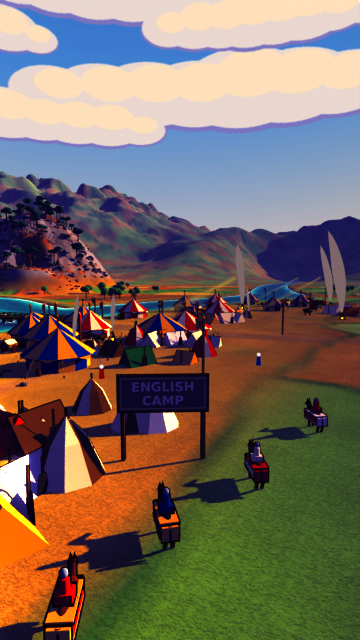
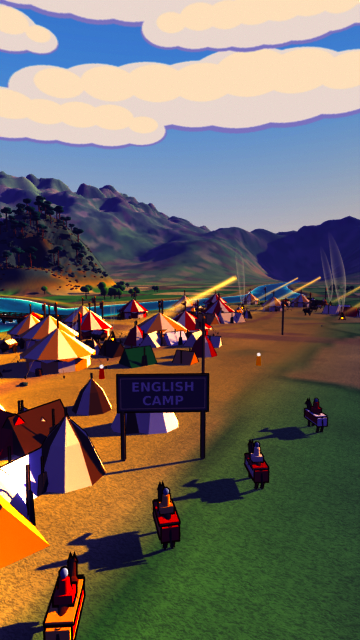
film21 sG/sJ1: sync set3d21 e07ceb1
Claude-Session: https://claude.ai/code/session_017iwyCtvGWYHcEnV2cnVAxQ

diff --git a/film/v3/set3d21/stirling.py b/film/v3/set3d21/stirling.py
@@ -97,7 +97,7 @@ _MATS = {}
 def get_mat(key):
     if key in _MATS: return _MATS[key]
     if key.startswith('glow'): m = _glow_mat(key)
-    elif key == 'smoke': m = _glow_mat('glow_smoke')
+    elif key == 'smoke': m = _smoke_mat()
     elif key == 'ink_hull': m = _ink_mat()
     elif key == 'sky': m = _sky_mat()
     elif key == 'water': m = _water_mat()
@@ -177,6 +177,35 @@ def _lit_mat(key, s):
     sh = _lit_core(nt, art, s, geo)
     if s['haze']: sh = _haze_out(nt, sh)
     L(sh, out.inputs['Surface']); return m
+def _smoke_mat():
+    """soft smoke: warm-grey emission, transparent at the silhouette (facing falloff) and fading toward the top of each plume, so a plume near the lens is a soft haze-free puff, not a flat grey blade."""
+    m = bpy.data.materials.new('smoke'); nt = _mk_tree(m); N = nt.nodes.new; L = nt.links.new; out = N('ShaderNodeOutputMaterial'); lw = N('ShaderNodeLayerWeight'); lw.inputs['Blend'].default_value = 0.5
+    tc = N('ShaderNodeTexCoord'); sp = N('ShaderNodeSeparateXYZ'); L(tc.outputs['Generated'], sp.inputs[0]); fz = N('ShaderNodeMath'); fz.operation = 'SUBTRACT'; fz.inputs[0].default_value = 1.0; L(sp.outputs['Z'], fz.inputs[1])
+    a1 = N('ShaderNodeMath'); a1.operation = 'MULTIPLY'; L(lw.outputs['Facing'], a1.inputs[0]); L(fz.outputs[0], a1.inputs[1]); a2 = N('ShaderNodeMath'); a2.operation = 'MULTIPLY'; a2.inputs[1].default_value = 0.85; L(a1.outputs[0], a2.inputs[0])
+    em = N('ShaderNodeEmission'); em.inputs['Color'].default_value = (*hex_lin('#e4d6cc'), 1); em.inputs['Strength'].default_value = 0.9; tr = N('ShaderNodeBsdfTransparent'); mx = N('ShaderNodeMixShader'); L(a2.outputs[0], mx.inputs['Fac']); L(tr.outputs[0], mx.inputs[1]); L(em.outputs[0], mx.inputs[2]); L(mx.outputs[0], out.inputs['Surface']); return m
+def hide_near_banners(points, radius=15.0, smoke=True, banners=True):
+    """hide (hide_render) every live banner (and, with smoke=True, every smoke plume) within `radius` m of any point of a camera path (list of (x, y, z) or (x, y); 3D distance when z is
+    given). Call again with other points to update; `K.show_all_banners()` undoes it. Returns (banners hidden, plumes hidden)."""
+    P = [np.array(p, float) for p in points]; nb = ns = 0
+    def near(loc):
+        for p in P:
+            q = np.array(loc, float)
+            if len(p) == 2: q = q[:2]
+            if np.linalg.norm(q - p) < radius: return True
+        return False
+    for (obn, mdn, ph, h0) in STATE['anim'].get('flags', []):
+        ob = bpy.data.objects.get(obn)
+        if ob is not None: hide = banners and near(ob.location); ob.hide_render = bool(hide); nb += int(hide)
+    for c in STATE['anim'].get('smoke', []):
+        ob = bpy.data.objects.get(c['ob'])
+        if ob is not None: hide = smoke and near(c['base']); ob.hide_render = bool(hide); ns += int(hide)
+    # the pole + cloth of one banner are separate objects at one origin: hide the siblings too
+    for ob in bpy.data.objects:
+        if ob.name.startswith('flag_') and not any(ob.name == f[0] for f in STATE['anim'].get('flags', [])): ob.hide_render = bool(banners and near(ob.location))
+    return nb, ns
+def show_all_banners():
+    for ob in bpy.data.objects:
+        if ob.name.startswith('flag_') or ob.name.startswith('smoke_col'): ob.hide_render = False
 def _glow_mat(key):
     spec = {'glow_flame': ('#ffb040', 6.0), 'glow_ember': ('#ff8a30', 4.0), 'glow_sun': ('#fff2cc', 6.0), 'glow_smoke': ('#cdbfc0', 0.85), 'glow_spray': ('#f6f8fb', 1.0), 'glow_spray2': ('#f2f6fa', 1.0)}[key]
     m = bpy.data.materials.new(key); nt = _mk_tree(m); out = nt.nodes.new('ShaderNodeOutputMaterial'); e = nt.nodes.new('ShaderNodeEmission'); e.name = 'strength'
@@ -201,7 +230,7 @@ def _sky_mat():
     cb = N('ShaderNodeCombineXYZ'); L(uw.outputs[0], cb.inputs['X']); L(v.outputs[0], cb.inputs['Y'])
     it = N('ShaderNodeTexImage'); it.image = bpy.data.images.load(path, check_existing=True); it.interpolation = 'Linear'; it.extension = 'EXTEND'; L(cb.outputs[0], it.inputs[0])
     e = N('ShaderNodeEmission'); L(it.outputs['Color'], e.inputs[0]); e.inputs[1].default_value = 1.0; L(e.outputs[0], out.inputs[0]); return m
-PH_COL = {'scot': '#6e5a3c', 'wallace': '#5a4a34', 'moray': '#3f6a4a', 'cressingham': '#b03a38', 'surrey': '#34548e', 'knight': '#b8323a', 'knight_b': '#2f56a8', 'knight_g': '#d9a93a',
+PH_COL = {'scot': '#6e5a3c', 'wallace': '#5a4a34', 'moray': '#3f6a4a', 'cressingham': '#b03a38', 'surrey': '#34548e', 'knight': '#b8323a', 'knight_b': '#c8962e', 'knight_g': '#d9a93a',
           'foot': '#9a8c70', 'foot_r': '#a84a40', 'archer': '#3f6a4a', 'squire': '#6a5a7a', 'scot_b': '#8c4a30', 'scot_o': '#b08a3c', 'scot_m': '#5a6a3a'}
 def _ph_mat(key):
     hexc = '#fef7f6' if key == 'ph_head' else '#4a2a4a' if key == 'ph_ring' else PH_COL[key[3:]]
@@ -860,7 +889,7 @@ def knight_pair_column(B, y_list, x, rs, mats):
     for i, yy in enumerate(y_list):
         for sx in (-0.62, 0.62):
             m = mats[(i + (0 if sx < 0 else 1)) % len(mats)]; horse(B, (x + sx, yy, DECK_Z), 90.0, coat=['horse', 'horse_dk', 'horse'][rs.randint(0, 3)], trap=m[0], trim=m[1], tint=0.85 + 0.3 * rs.rand(), rider=(m[0],))
-KNIGHT_MATS = [('t_red', 't_gold'), ('t_blue', 't_gold'), ('t_cream', 't_red'), ('t_red', 't_white'), ('t_blue', 't_white')]
+KNIGHT_MATS = [('t_red', 't_gold'), ('t_gold', 't_red'), ('t_cream', 't_red'), ('t_red', 't_white'), ('t_gold', 't_cream')]
 
 # ---------------------------------------------------------------- camp props
 def ropes(B, c, r, hroof, hwall, n, rs, peg_r=1.9):
@@ -954,7 +983,7 @@ def weapon_rack(B, c, yaw, rs, n=7):
         for sx in (-1.0, 1.0): B.rod('wood', (sx, -0.3, 0), (sx, 0, 1.55), 0.05, seg=5); B.rod('wood', (sx, 0.3, 0), (sx, 0, 1.55), 0.05, seg=5)
         B.rod('wood', (-1.0, 0, 1.5), (1.0, 0, 1.5), 0.045, seg=5); B.rod('wood', (-1.0, 0, 0.6), (1.0, 0, 0.6), 0.04, seg=5)
         for i in range(n): xx = -0.85 + i * 1.7 / (n - 1); spear(B, (xx, rs.uniform(-0.05, 0.05), 0.02), tilt=(rs.uniform(-0.2, 0.2), rs.uniform(-0.1, 0.1)), h=2.5)
-        for i in range(2): B.cyl('t_red' if i == 0 else 't_blue', (-0.4 + i * 0.8, -0.22, 0.45), 0.34, 0.06, axis='y', seg=12, smooth=False)
+        for i in range(2): B.cyl('t_red' if i == 0 else 't_gold', (-0.4 + i * 0.8, -0.22, 0.45), 0.34, 0.06, axis='y', seg=12, smooth=False)
 def campfire(B, Bs, c, rs, puffs=True):
     x, y, z = c
     for i in range(9): a = i * 2 * math.pi / 9; boulder(B, x + 0.62 * math.cos(a), y + 0.62 * math.sin(a), z, 0.26, rs, 'rock')
@@ -994,7 +1023,7 @@ def table_set(A, B, c, yaw, rs):
             for sy in (-1.2, 1.2): B.rod('wood', (sx, sy, -0.1), (sx, sy, 3.5), 0.055, seg=6)
         seg = 8; r = 2.5; hz = 3.5
         for i in range(seg):
-            a0 = 2 * math.pi * i / seg + math.pi / 4; a1 = 2 * math.pi * (i + 1) / seg + math.pi / 4; m = ('t_blue', 't_gold')[i % 2]
+            a0 = 2 * math.pi * i / seg + math.pi / 4; a1 = 2 * math.pi * (i + 1) / seg + math.pi / 4; m = ('t_red', 't_gold')[i % 2]
             Bc.mesh(m, [(r * 1.0 * math.cos(a0) * 1.0, r * 0.82 * math.sin(a0), hz), (r * math.cos(a1), r * 0.82 * math.sin(a1), hz), (0, 0, hz + 0.9)], [(0, 1, 2)], False)
             Bc.mesh(m, [(r * math.cos(a0), r * 0.82 * math.sin(a0), hz), (r * math.cos(a1), r * 0.82 * math.sin(a1), hz), (r * math.cos(a1), r * 0.82 * math.sin(a1), hz - 0.5), (r * math.cos(a0), r * 0.82 * math.sin(a0), hz - 0.5)], [(0, 1, 2, 3)], False)
         Bc.sphere('gold', (0, 0, hz + 1.0), 0.14, seg=8, rings=5)
@@ -1076,16 +1105,16 @@ def build_camp(A, pr):
     free = lambda x, y, r=0.0: all(math.hypot(x - cx, y - cy) > cr + r for cx, cy, cr in clear)
     PAV = [(-96, 8, 3.6), (-72, 10, 4.0), (-48, 8, 3.8), (-26, 22, 4.4), (24, 9, 4.0), (48, 12, 3.8), (74, 8, 4.2), (98, 11, 3.6), (-60, 30, 3.6), (-12, 36, 5.0), (30, 34, 4.4), (66, 36, 3.8), (-86, 34, 3.6), (92, 36, 3.6)]
     for i, (x, off, r) in enumerate(PAV):
-        by = float(bank_y(x)); y = by - off - r; z = float(ground(x, y)); mats = (('t_red', 't_cream'), ('t_blue', 't_gold'))[i % 2]
+        by = float(bank_y(x)); y = by - off - r; z = float(ground(x, y)); mats = (('t_red', 't_cream'), ('t_gold', 't_cream'))[i % 2]
         if not free(x, y, r + 2): continue
         pavilion(B, (x, y, z), r, mats, yaw=rs.uniform(0, 30), rs=rs, hw=1.8 + 0.2 * rs.rand(), hr=3.2 + 0.7 * rs.rand())
-        if i % 2 == 0 or r > 4.3: bn(Bh, (x + r * 0.6, y + r * 0.2, z), 6.5 + rs.rand() * 1.5, rs.uniform(-20, 60), *[('t_red', 't_gold', 'chevron'), ('t_blue', 't_gold', 'bars'), ('t_cream', 't_red', 'cross'), ('t_gold', 't_red', 'lion'), ('t_green', 't_cream', 'bend')][i % 5], rs)
+        if i % 2 == 0 or r > 4.3: bn(Bh, (x + r * 0.6, y + r * 0.2, z), 6.5 + rs.rand() * 1.5, rs.uniform(-20, 60), *[('t_red', 't_gold', 'chevron'), ('t_red', 't_gold', 'bars'), ('t_cream', 't_red', 'cross'), ('t_gold', 't_red', 'lion'), ('t_green', 't_cream', 'bend')][i % 5], rs)
         sacks(B, (x + r + 1.0, y - 1.5, z), 3, rs); barrel(B, (x - r - 0.8, y - 2.0, z), rs=rs)
     camp['pav'] = PAV
     for i, (x, y, r) in enumerate([(-24.0, -38.0, 3.6), (-14.0, -44.0, 3.9), (-38.0, -58.0, 4.2), (-6.0, -62.0, 4.6), (-6.0, -35.5, 4.2)]):          # the plaza pavilions
         if not free(x, y, r + 2): continue
-        z = float(ground(x, y)); pavilion(B, (x, y, z), r, (('t_blue', 't_gold'), ('t_red', 't_cream'))[i % 2], yaw=rs.uniform(0, 30), rs=rs, hw=1.9, hr=3.4)
-        bn(Bh, (x + r * 0.7, y - r * 0.3, z), 7.0, rs.uniform(10, 70), *[('t_gold', 't_red', 'lion'), ('t_blue', 't_gold', 'bars'), ('t_red', 't_gold', 'chevron'), ('t_cream', 't_red', 'cross')][i % 4], rs)
+        z = float(ground(x, y)); pavilion(B, (x, y, z), r, (('t_gold', 't_cream'), ('t_red', 't_cream'))[i % 2], yaw=rs.uniform(0, 30), rs=rs, hw=1.9, hr=3.4)
+        bn(Bh, (x + r * 0.7, y - r * 0.3, z), 7.0, rs.uniform(10, 70), *[('t_gold', 't_red', 'lion'), ('t_red', 't_gold', 'bars'), ('t_red', 't_gold', 'chevron'), ('t_cream', 't_red', 'cross')][i % 4], rs)
         sacks(B, (x + r + 1.0, y - 1.0, z), 3, rs); barrel(B, (x - r - 0.9, y - 1.5, z), rs=rs)
     for (x, y, yaw) in [(-31.0, -42.0, 20), (-19.0, -50.0, 80), (-45.0, -46.0, 10)]:
         if free(x, y, 4): cart(B, (x, y, float(ground(x, y))), yaw, rs, cover=rs.rand() < 0.5)
@@ -1103,7 +1132,7 @@ def build_camp(A, pr):
             if rs.rand() < 0.35: bell_tent(B, (x, y, z), 1.8 * sz, 2.8 * sz, m, rs)
             else: ridge_tent(B, (x, y, z), 3.6 * sz, 2.9 * sz, 2.0 * sz, m, yaw=rs.choice([0, 90, 20, -25, 70]) + rs.uniform(-8, 8))
     for i, (x, off) in enumerate([(-130, 24), (-110, 6), (116, 12), (130, 34), (-60, 52), (50, 58), (4, 62), (-34, 60)]):          # more banners on the skirts
-        y = float(bank_y(x)) - off; bn(Bh, (x, y, float(ground(x, y))), 7.0, rs.uniform(-20, 60), *[('t_red', 't_gold', 'chevron'), ('t_blue', 't_gold', 'bars'), ('t_cream', 't_red', 'cross'), ('t_gold', 't_red', 'lion')][i % 4], rs)
+        y = float(bank_y(x)) - off; bn(Bh, (x, y, float(ground(x, y))), 7.0, rs.uniform(-20, 60), *[('t_red', 't_gold', 'chevron'), ('t_red', 't_gold', 'bars'), ('t_cream', 't_red', 'cross'), ('t_gold', 't_red', 'lion')][i % 4], rs)
     for (x, off, yaw) in [(-34, 26, 20), (44, 24, -10), (84, 28, 80), (-76, 28, 5), (10, 40, 30)]:
         y = float(bank_y(x)) - off
         if free(x, y, 4): cart(B, (x, y, float(ground(x, y))), yaw, rs, cover=rs.rand() < 0.6)
@@ -1119,7 +1148,7 @@ def build_camp(A, pr):
         zl = [float(ground(x_, y)) for x_ in xs]
         for i, x_ in enumerate(xs):
             B.rod('wood', (x_ - 2.6, y + 0.2, zl[i]), (x_ - 2.6, y + 0.2, zl[i] + 1.6), 0.06, seg=5)
-            horse(B, (x_, y + (1.2 if i % 2 else -0.2), zl[i]), rs.uniform(70, 110) if i % 2 == 0 else rs.uniform(250, 290), coat=['horse', 'horse_dk', 'horse', 'horse'][rs.randint(0, 4)], trap=(None, 't_red', None, 't_blue', 't_cream', None, 't_red')[i], trim='t_gold', tint=0.8 + 0.4 * rs.rand(), bob=rs.uniform(0, 0.25))
+            horse(B, (x_, y + (1.2 if i % 2 else -0.2), zl[i]), rs.uniform(70, 110) if i % 2 == 0 else rs.uniform(250, 290), coat=['horse', 'horse_dk', 'horse', 'horse'][rs.randint(0, 4)], trap=(None, 't_red', None, 't_gold', 't_cream', None, 't_red')[i], trim='t_gold', tint=0.8 + 0.4 * rs.rand(), bob=rs.uniform(0, 0.25))
         B.rod('rope', (xs[0] - 2.6, y + 0.2, zl[0] + 1.5), (xs[-1] - 2.6, y + 0.2, zl[-1] + 1.5), 0.02, seg=3)
     # Cressingham's money table by the road, west side, facing the river
     tx, toff = -13.0, 8.5; ty = float(bank_y(tx)) - toff; tz = float(ground(tx, ty)); table_set(A, B, (tx, ty, tz), 0.0, rs); camp['table'] = (tx, ty, tz)
@@ -1359,10 +1388,10 @@ def crowd_loop(A, pr):
         items.append((x, y, float(ground(x, y)), ['scot', 'scot_b', 'scot_o', 'scot_m'][i % 4], 1.0))
     A['scots_line'] = scots_slope_line(30, 3, 1.0, rs, spear_h=4.0) + spear_wall(14, 2, rs)
     Bb = Batch(80)
-    for i, (x, y, f, c, sh) in enumerate([(-30, 66, 't_red', 't_gold', 'chevron'), (22, 72, 't_blue', 't_gold', 'bars'), (-8, 96, 't_cream', 't_red', 'cross'), (34, 104, 't_gold', 't_red', 'lion'), (-34, 112, 't_blue', 't_white', 'chevron'),
-                                           (4, 126, 't_red', 't_cream', 'bars'), (-60, -52, 't_red', 't_gold', 'chevron'), (52, -48, 't_blue', 't_gold', 'bars'), (8, -80, 't_gold', 't_red', 'lion')]):
+    for i, (x, y, f, c, sh) in enumerate([(-30, 66, 't_red', 't_gold', 'chevron'), (22, 72, 't_red', 't_gold', 'bars'), (-8, 96, 't_cream', 't_red', 'cross'), (34, 104, 't_gold', 't_red', 'lion'), (-34, 112, 't_red', 't_gold', 'chevron'),
+                                           (4, 126, 't_red', 't_cream', 'bars'), (-60, -52, 't_red', 't_gold', 'chevron'), (52, -48, 't_red', 't_gold', 'bars'), (8, -80, 't_gold', 't_red', 'lion')]):
         banner(Bb, (x, y, float(ground(x, y))), 11.0, 20 + 25 * i % 70, f, c, sh, rs, size=(4.4, 3.0))
-    for i, (a, f, c, sh) in enumerate([(220, 't_blue', 't_white', 'cross'), (242, 't_red', 't_gold', 'lion')]):
+    for i, (a, f, c, sh) in enumerate([(220, 't_gold', 't_red', 'cross'), (242, 't_red', 't_gold', 'lion')]):
         x = HILL_C[0] + 66 * math.cos(math.radians(a)) * 1.05; y = HILL_C[1] + 66 * 0.9 * math.sin(math.radians(a)); banner(Bb, (x, y, float(ground(x, y))), 11.0, 30, f, c, sh, rs, size=(4.4, 3.0))
     Bb.finalize('crowd_banners', shadow=False); B.finalize('crowd_horses'); stage_crowd(items)
 def px_lat(lens, d, x_px): return (x_px - 360.0) / (1280.0 * lens / 36.0) * d
@@ -1381,12 +1410,12 @@ def camp_fg(A, pr):
     cam = np.array(pr['cam']); look = np.array(pr['look']); B = Batch(65); Bs = Batch(66); rs = np.random.RandomState(23); lens = pr['lens']
     def at(d, xp): return rel_xy(cam, look, d, px_lat(lens, d, xp))
     dry = lambda x, y, m=3.5: float(sd_at(x, y)) > m
-    mats = (('t_red', 't_cream'), ('t_blue', 't_gold'), ('t_red', 't_cream'), ('t_blue', 't_gold'), ('t_red', 't_cream'), ('t_blue', 't_gold'))
+    mats = (('t_red', 't_cream'), ('t_gold', 't_cream'), ('t_red', 't_cream'), ('t_gold', 't_cream'), ('t_red', 't_cream'), ('t_gold', 't_cream'))
     for i, (d, xp, r) in enumerate([(26.0, 770, 4.0), (40.0, 700, 3.6), (32.0, 715, 4.4), (46.0, 700, 4.0), (60.0, 705, 4.6), (78.0, 690, 4.2)]):
         x, y = at(d, xp)
         if not dry(x, y, 6): continue
         z0 = float(ground(x, y)); pavilion(B, (x, y, z0), r, mats[i], yaw=rs.uniform(0, 30), rs=rs, hw=1.9, hr=3.4)
-        bx, by = x + r * 0.7, y + r * 0.3; banner(B, (bx, by, float(ground(bx, by))), 7.5, rs.uniform(-30, 40), *[('t_red', 't_gold', 'chevron'), ('t_blue', 't_gold', 'bars'), ('t_gold', 't_red', 'lion')][i % 3], rs)
+        bx, by = x + r * 0.7, y + r * 0.3; banner(B, (bx, by, float(ground(bx, by))), 7.5, rs.uniform(-30, 40), *[('t_red', 't_gold', 'chevron'), ('t_red', 't_gold', 'bars'), ('t_gold', 't_red', 'lion')][i % 3], rs)
         sacks(B, (x - r - 1.0, y - 1.5, z0), 3, rs); barrel(B, (x + r + 0.9, y - 2.0, z0), rs=rs)
     for i, (d, xp) in enumerate([(12, 760), (17, 40), (19, 20), (24, 700), (26, 60), (33, 120), (38, 540), (46, 90), (52, 735), (58, 20), (64, 640), (70, 520), (80, 430)]):
         x, y = at(d, xp)
@@ -1402,7 +1431,7 @@ def camp_fg(A, pr):
     for i in range(6):                                          # horse line
         x, y = at(19 + 2.0 * i, 720 + 6 * i)
         if not dry(x, y, 5): continue
-        horse(B, (x, y, float(ground(x, y))), 95 + rs.uniform(-15, 15), coat=['horse', 'horse_dk', 'horse'][i % 3], trap=(None, 't_red', None, 't_blue', 't_cream', None)[i], trim='t_gold', tint=0.8 + 0.4 * rs.rand(), bob=rs.uniform(0, 0.25))
+        horse(B, (x, y, float(ground(x, y))), 95 + rs.uniform(-15, 15), coat=['horse', 'horse_dk', 'horse'][i % 3], trap=(None, 't_red', None, 't_gold', 't_cream', None)[i], trim='t_gold', tint=0.8 + 0.4 * rs.rand(), bob=rs.uniform(0, 0.25))
     B.finalize('camp_fg', shadow=False); Bs.finalize('camp_fg_smoke', ink=False)
 def crowd_hill(A, pr):
     """hill_over: tiny English column on the bridge (knights two by two + a few foot), foot soldiers at the camp, the Scots line below the lens with spears."""

diff --git a/film/v3/set3d21/t_banners.py b/film/v3/set3d21/t_banners.py
@@ -1,0 +1,11 @@
+#!/usr/bin/env python3
+"""banner / smoke check: camp_wide -> camp_bank through the camp (world scene, drafts), banners and smoke near the path hidden with hide_near_banners -> styleboard/banner_strip.jpg"""
+import os, sys
+HERE = os.path.dirname(os.path.abspath(__file__)); sys.path.insert(0, HERE)
+import numpy as np, bpy, stirling as K
+from PIL import Image
+A = K.build_world(['camp_wide', 'camp_bank'], fg=False); keys = [(0, 'camp_wide'), (30, (-60, -70, 9), (-20, -40, 2), 22.0), (60, 'camp_bank')]; pts = [K.cam_path(None, keys, g)['loc'] for g in range(0, 61, 3)]
+print('hidden banners, plumes:', K.hide_near_banners(pts, 15.0)); ims = []
+for g in (0, 12, 24, 36, 48, 60):
+    K.cam_path(None, keys, g); f = os.path.join(HERE, 'styleboard', 'ban_%02d.png' % g); K.render(f, 'draft', 16); ims.append(Image.open(f).convert('RGB').resize((240, 427)))
+S = Image.new('RGB', (244 * 6, 427), (18, 18, 22)); [S.paste(im, (i * 244, 0)) for i, im in enumerate(ims)]; S.save(os.path.join(HERE, 'styleboard', 'banner_strip.jpg'), quality=90); print('ok')

diff --git a/film/v3/set3d21/API.md b/film/v3/set3d21/API.md
@@ -162,9 +162,15 @@ for g in range(0, 96):
 - Known: warm ochre/orange still shows in the loop meadow and around the camp in valley_wide / P_A (the low warm sun on the straw meadow); the hill's lower skirt has a thin orange rim.
 
 ## 15. Director retune after the palette fix (2026-11-20 19:00)
-- The palette-fix VIVID of valley_wide and valley_loop (sat multipliers about 2.4) made those views violet and orange. They are now calm: valley_wide (1.3, 1.2, 0.85) and valley_loop (1.35, 1.15, 0.8), the same family as P_TOP (1.4, 1.1, 0.75).
+- The palette-fix VIVID of valley_wide and valley_loop (sat multipliers of about 2.4) made those views violet and orange. They are now calm, in the same family as P_TOP (1.4, 1.1, 0.75): valley_wide (1.3, 1.2, 0.85) and valley_loop (1.35, 1.15, 0.8).
 - The valley_wide camera looks toward the sun, so its frame is mostly shade. Do NOT use it as a hero wide.
-- **New `P_HOOK`** = (-60, -260, 230) -> (60, 60, 0), 22 mm, VIVID (1.4, 1.1, 0.75). It is the front-lit extreme wide from the south: the loop, the bridge, the camp and the dark crag in one frame (draft sat 0.48 / luma 92). BIGZOOM 1 (A1) STARTS here.
-- **P_A moved** to (40, 10, 95) -> (150, 140, 20), 22 mm, VIVID (1.3, 1.2, 0.85). It is low over the river SW of Abbey Craig, looking NE at the crag with its pines. The old pose is kept as `P_A_OLD`.
+- **New `P_HOOK`** = (-60, -260, 230) -> (60, 60, 0), 22 mm, VIVID (1.4, 1.1, 0.75). It is the front-lit extreme wide from the south: the loop, the bridge, the camp and the dark crag in one frame. BIGZOOM 1 (A1) STARTS here.
+- **P_A moved** to (40, 10, 95) -> (150, 140, 20), 22 mm, VIVID (1.3, 1.2, 0.85): low over the river SW of Abbey Craig, looking NE at the crag and its pines. The old pose is kept as `P_A_OLD`.
 - **A2** flies from P_A up the crag and arcs around over the Scots, ending behind them looking SW down at the bridge (the hill_over family of poses).
-- Turn on `scots_wide=True` with `toward` set at the P_HOOK/P_A camera, so the Scots line faces the south viewer.
+- Use `scots_wide=True` with `toward` at the P_HOOK/P_A camera, so the Scots line faces the south viewer.
+
+## 16. Banners and smoke near the lens (fix after the H2b / C gates)
+- The grey curved "blades" were the SMOKE plumes (flat grey emission tubes), not the banner cloths: the Wave-modified cloth keeps its material, its tint attribute and both sides (checked close up: crimson with the gold chevron, blue saltire). The plume material is now soft: warm-grey emission, transparent at the silhouette (facing falloff) and fading to the top, so a plume near the lens is a soft puff.
+- `K.hide_near_banners(points, radius=15.0, smoke=True, banners=True)`: hides (hide_render) every live banner (all parts of it) and, with smoke=True, every smoke plume within `radius` m of any point of the camera path (`(x, y, z)` 3D distance, or `(x, y)`); returns (banners hidden, plumes hidden). `K.show_all_banners()` undoes it. Typical: `pts = [K.cam_path(None, keys, g)['loc'] for g in range(f0, f1 + 1, 3)]; K.hide_near_banners(pts, 15)` before rendering the segment. `python3 t_banners.py` flies camp_wide -> camp_bank through the camp in drafts (`styleboard/banner_strip.jpg`).
+- Colour story: English banners crimson/gold (and cream, green), Scots banners blue saltire only (`t_saltire`); the generic banner list in the camp has no blue-and-white saltire.
+- **Blue means Scots only.** The English camp has no blue left: pavilion stripes are crimson/cream or gold/cream, the knight surcoats and caparisons (`KNIGHT_MATS`, the horse lines, the camp_wide parade) are crimson, gold or cream, the table canopy is crimson/gold, the weapon-rack shields are crimson/gold, and the `knight_b` placeholder card is gold. Blue stays on the Scots saltire banners (`t_saltire`) and the Scots tunics.
